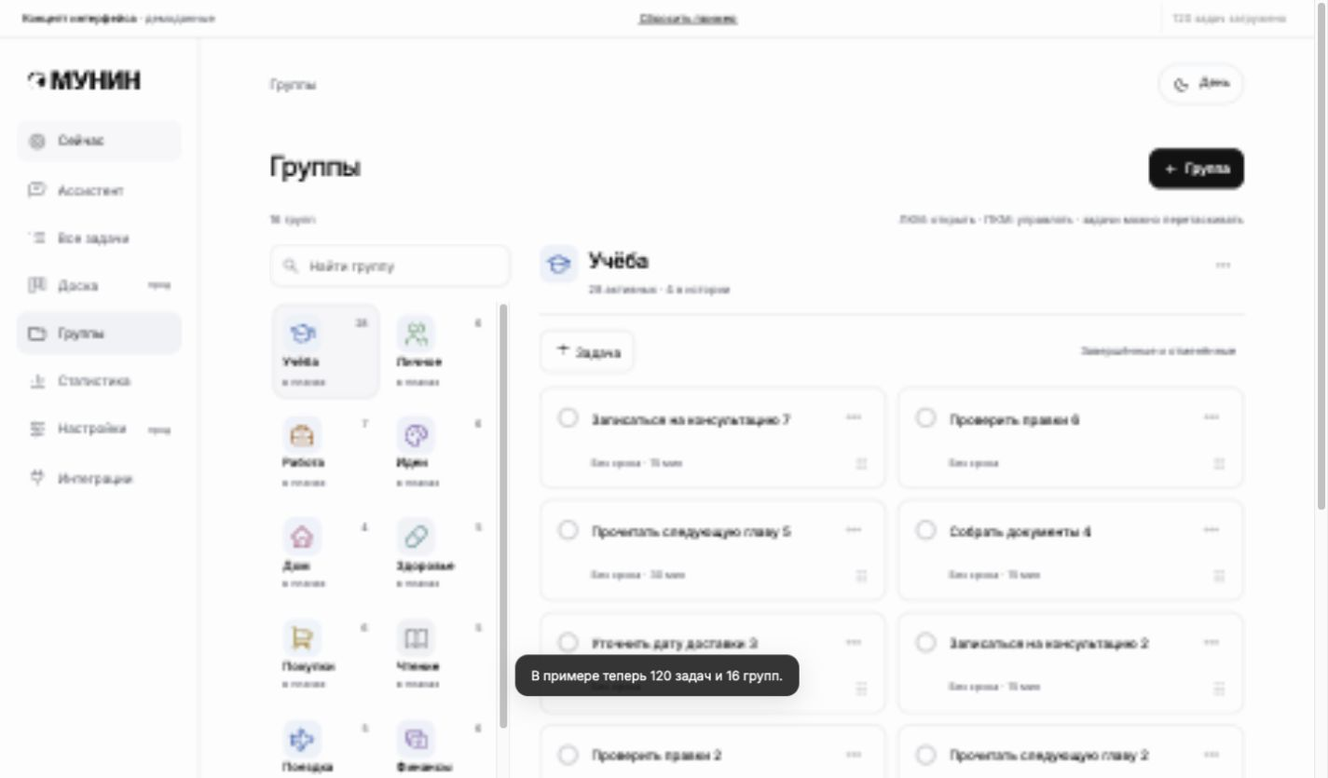
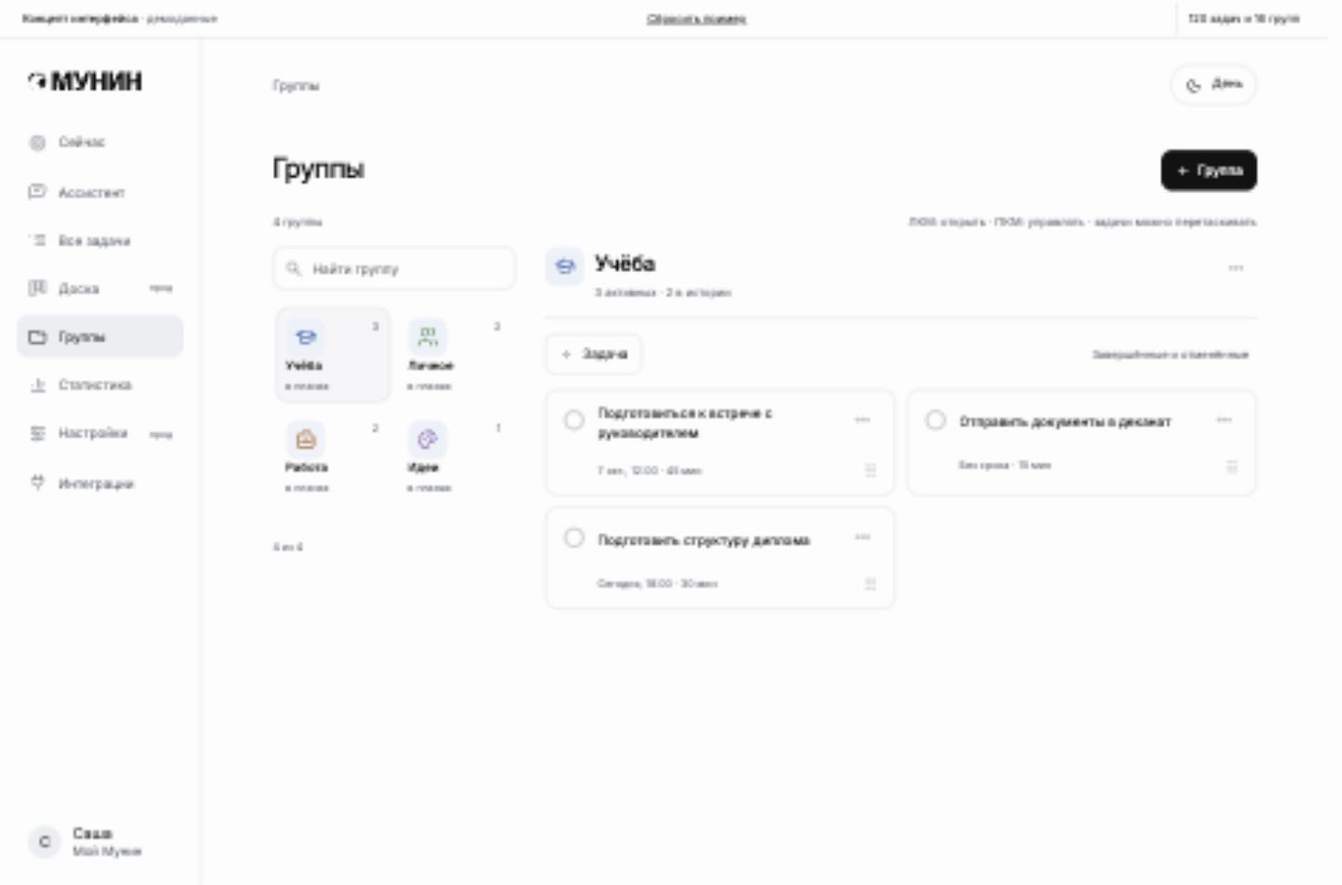
исправить быстрые действия и перенос задач в концепте

diff --git a/docs/design/concept-pages.js b/docs/design/concept-pages.js
@@ -30,7 +30,7 @@
     section('all', `${head('Все задачи', '', addButton('Добавить', 'data-new-task'))}
       <form class="inline-form" id="new-task-form" hidden><h2>Новая задача</h2><div class="form-grid">${field('Название', 'new-task-title', 'text', 'required maxlength="500"')}<label>Группа<select class="field-control" id="new-task-group"></select></label></div><div class="actions"><button class="action primary">Добавить</button><button class="action" type="button" data-close-new>Отмена</button></div></form>
       <div class="task-workbar"><div class="filter-strip" aria-label="Период задач">${[['now','Сейчас'],['today','Сегодня'],['week','Неделя'],['all','Все']].map(([key, label]) => `<button data-period="${key}" aria-pressed="${key === 'all'}">${label}</button>`).join('')}</div><label class="search-field">${icon('search')}<input type="search" id="task-search" aria-label="Поиск задач" placeholder="Найти задачу"></label><button class="tool-button filter-button" data-toggle-filters aria-expanded="false" aria-label="Фильтры">${icon('settings')}<span>Фильтры</span></button><button class="tool-button selection-button" data-toggle-selection aria-pressed="false" aria-label="Выбрать несколько задач">${icon('check')}<span>Выбрать</span></button></div>
-      <div class="list-filters" id="list-filters" hidden><label>Группа<select class="field-control" id="list-group" aria-label="Фильтр по группе"></select></label><label>Статус<select class="field-control" id="list-status" aria-label="Фильтр по статусу"><option value="">Все статусы</option>${statusOptions()}</select></label><label>Порядок<select class="field-control" id="list-order"><option value="default">По статусу</option><option value="deadline">По сроку</option><option value="title">По названию</option></select></label></div>
+      <div class="list-filters" id="list-filters" hidden><label>Группа<select class="field-control" id="list-group" aria-label="Фильтр по группе"></select></label><label>Статус<select class="field-control" id="list-status" aria-label="Фильтр по статусу"><option value="">Все статусы</option>${statusOptions()}</select></label><label>Порядок<select class="field-control" id="list-order"><option value="default">По статусу</option><option value="deadline">По сроку</option><option value="title">По названию</option></select></label><button class="tool-button" data-clear-filters>Сбросить</button></div>
       <div class="list-summary"><span id="list-caption"></span><span class="mouse-tip">ПКМ или ⋯: действия</span><span class="touch-tip">Действия в ⋯</span></div><div class="mass-toolbar" id="mass-toolbar" hidden></div><div id="all-list"></div><nav class="list-pager" id="task-pagination" aria-label="Страницы задач"></nav>`),
     section('board', `${head('Доска', 'Три состояния. Двигай задачи в своём темпе.', addButton('Задача', 'data-new-task'))}<div class="filter-strip board-mobile-tabs" id="lane-tabs" aria-label="Колонка доски"></div><div class="board-grid" id="board-grid"></div>`),
     section('groups', `${head('Группы', '', addButton('Группа', 'data-new-group'))}<form class="inline-form" id="group-form" hidden><h2 id="group-form-heading">Новая группа</h2><div class="form-grid">${field('Название', 'group-name', 'text', 'required maxlength="100"')}<div><p class="page-note">Значок</p><select id="group-symbol" hidden data-icon-source>${Object.entries(groupIcons).map(([key,label])=>`<option value="${key}">${label}</option>`).join('')}</select><div class="group-icon-picker" role="group" aria-label="Значок группы">${Object.entries(groupIcons).map(([key,label])=>`<button type="button" data-group-symbol="${key}" aria-label="${label}" aria-pressed="false"><svg class="icon" aria-hidden="true"><use href="#group-${key}"/></svg></button>`).join('')}</div></div><div class="wide"><p class="page-note">Цвет метки</p><div class="color-choices">${colors.map((color, index) => `<button type="button" class="color-choice" data-group-color="${color}" style="--group-color:${color}" aria-label="${colorNames[index]}" aria-pressed="${index === 0}"><span></span></button>`).join('')}</div></div></div><p class="field-error" id="group-error" role="alert" hidden></p><div class="actions"><button class="action primary">Сохранить</button><button class="action" type="button" data-close-group>Отмена</button></div></form><div class="group-hints"><span id="groups-count"></span><span class="mouse-tip">ЛКМ: открыть · ПКМ: управлять · задачи можно перетаскивать</span><span class="touch-tip">Управление в ⋯</span></div><div id="group-list" class="groups-workspace"><aside class="folder-index"><label class="search-field">${icon('search')}<input id="folder-search" type="search" aria-label="Найти группу" placeholder="Найти группу"></label><div id="folder-rail" class="folder-rail"></div><div id="folder-index-caption" class="index-caption"></div></aside><div class="folder-stage"><div id="group-canvas"></div><div id="folder-drag-rest" class="folder-drag-rest" hidden></div><div id="folder-hover-preview" class="folder-hover-preview" hidden></div></div></div>`),
@@ -105,6 +105,7 @@
   }
   function renderList() {
     $('list-group').innerHTML = groupOptions('Все группы'); $('list-group').value = groupFilter;
+    document.querySelectorAll('[data-clear-filters]').forEach((button)=>{if(button.closest('#list-filters'))button.disabled=period==='all' && !search && !groupFilter && !statusFilter && $('list-order').value==='default';});
     const matched = tasks.filter(listMatches), pending = matched.filter(active), history = matched.filter((task) => !active(task));
     const showHistory = historyOpen || !!search || ['done','cancelled'].includes(statusFilter);
     const items = matched.filter((task) => active(task) || showHistory);
@@ -145,14 +146,16 @@
     const items = preview || !folderHistory ? pending : historical, limit=12, pages=Math.max(1,Math.ceil(items.length/limit));
     if (!preview) folderPage=Math.min(pages,Math.max(1,folderPage));
     const page = preview ? 1 : folderPage;
-    return `${preview ? '' : `<button class="folder-back" data-folder-back>${icon('arrow')}Все группы</button>`}<header class="folder-stage-head">${folderEmblem(group,true)}<div><h2 id="${preview ? 'group-preview-title' : 'group-view-title'}" tabindex="-1">${e(group.name)}</h2><p>${preview ? 'Отпусти, чтобы перенести сюда' : `${pending.length} активных · ${historical.length} в истории`}</p></div>${preview ? '' : `<button class="record-menu" data-group-menu="${e(group.name)}" aria-label="Управлять группой ${e(group.name)}" aria-haspopup="menu">${icon('more')}</button>`}</header>${preview ? '' : `<div class="folder-tools"><button class="action" data-new-task data-task-group="${e(group.name)}">${icon('plus')} Задача</button><button class="text-action" data-folder-history>${folderHistory ? 'Активные' : 'Завершённые и отменённые'}</button></div>`}<div class="folder-task-grid">${items.slice((page-1)*limit,page*limit).map((task)=>folderTask(task,preview)).join('')}</div>${items.length ? pages>1 && !preview ? `<nav class="list-pager" aria-label="Страницы задач группы"><span>${(page-1)*limit+1}–${Math.min(page*limit,items.length)} из ${items.length}</span><button class="quiet-icon previous" data-folder-page="${page-1}" aria-label="Предыдущая страница группы" ${page===1 ? 'disabled' : ''}>${icon('arrow')}</button><button class="quiet-icon" data-folder-page="${page+1}" aria-label="Следующая страница группы" ${page===pages ? 'disabled' : ''}>${icon('arrow')}</button></nav>` : '' : `<div class="empty-state"><h2>${preview ? 'Здесь есть место' : folderHistory ? 'История пока пуста' : 'Папка свободна'}</h2><p>${preview ? 'Задача появится в этой группе после переноса.' : folderHistory ? 'Завершённые задачи появятся здесь.' : 'Добавь задачу или перенеси её из другой группы.'}</p></div>`}`;
+    return `${preview ? '' : `<button class="folder-back" data-folder-back>${icon('arrow')}Все группы</button>`}<header class="folder-stage-head">${folderEmblem(group,true)}<div><h2 id="${preview ? 'group-preview-title' : 'group-view-title'}" tabindex="-1">${e(group.name)}</h2><p>${preview ? 'Отпусти, чтобы перенести сюда' : `${pending.length} активных · ${historical.length} в истории`}</p></div><button class="record-menu ${preview ? 'preview-tools' : ''}" data-group-menu="${e(group.name)}" aria-label="Управлять группой ${e(group.name)}" aria-haspopup="menu">${icon('more')}</button></header><div class="folder-tools ${preview ? 'preview-tools' : ''}"><button class="action" data-new-task data-task-group="${e(group.name)}">${icon('plus')} Задача</button><button class="text-action" data-folder-history>${folderHistory ? 'Активные' : 'Завершённые и отменённые'}</button></div><div class="folder-task-grid">${items.slice((page-1)*limit,page*limit).map((task)=>folderTask(task,preview)).join('')}</div>${items.length ? pages>1 && !preview ? `<nav class="list-pager" aria-label="Страницы задач группы"><span>${(page-1)*limit+1}–${Math.min(page*limit,items.length)} из ${items.length}</span><button class="quiet-icon previous" data-folder-page="${page-1}" aria-label="Предыдущая страница группы" ${page===1 ? 'disabled' : ''}>${icon('arrow')}</button><button class="quiet-icon" data-folder-page="${page+1}" aria-label="Следующая страница группы" ${page===pages ? 'disabled' : ''}>${icon('arrow')}</button></nav>` : '' : `<div class="empty-state"><h2>${preview ? 'Здесь есть место' : folderHistory ? 'История пока пуста' : 'Папка свободна'}</h2><p>${preview ? 'Задача появится в этой группе после переноса.' : folderHistory ? 'Завершённые задачи появятся здесь.' : 'Добавь задачу или перенеси её из другой группы.'}</p></div>`}`;
   }
   function renderGroups() {
     if (folderDragId !== null) return;
     if (!groups.some((group)=>group.name===expandedGroup)) expandedGroup=groups[0]?.name || null;
     const filtered=groups.filter((group)=>group.name.toLocaleLowerCase('ru').includes(folderSearch.toLocaleLowerCase('ru'))), visible=folderSearch ? filtered : filtered.slice(0,folderLimit);
     $('groups-count').textContent=`${groups.length} ${groups.length===1 ? 'группа' : groups.length>=2 && groups.length<=4 ? 'группы' : 'групп'}`;
+    const railScroll=$('folder-rail').scrollTop;
     $('folder-rail').innerHTML=visible.length ? visible.map((group)=>{const pending=tasks.filter((task)=>active(task) && task.group===group.name).length;return `<button class="folder-tile" data-open-folder="${e(group.name)}" data-drop-folder="${e(group.name)}" aria-expanded="${expandedGroup===group.name}" title="${e(group.name)} · ПКМ: управление" style="--folder-color:${group.color}">${folderEmblem(group)}<span class="folder-count">${pending}</span><strong>${e(group.name)}</strong><small>${pending ? 'в планах' : 'нет активных задач'}</small></button>`;}).join('') : '<p class="page-note">Группа не найдена.</p>';
+    $('folder-rail').scrollTop=railScroll;
     $('folder-index-caption').innerHTML=`<span>${visible.length} из ${filtered.length}</span>${visible.length<filtered.length ? '<button data-more-folders>Ещё группы</button>' : ''}`;
     $('group-list').classList.toggle('folder-focused',folderOpened);
     const group=groups.find((item)=>item.name===expandedGroup);
@@ -190,7 +193,7 @@
   function renderIdentities() {
     const total=Object.values(identities).filter(Boolean).length;
     $('access-note').innerHTML=`${icon(total>=2 ? 'check' : 'plug')}<span>${total>=2 ? 'Запасной способ входа подключён.' : `${identities.telegram ? 'Telegram подключён' : identities.email ? 'Почта подключена' : 'Телефон подключён'}. Добавь запасной способ входа.`}</span>`;
-    $('provider-list').innerHTML=[['telegram','Telegram','chat','Вход через Telegram'],['email','Почта','mail','Код в письме'],['phone','Телефон','phone','Подтверждение звонком']].map(([key,name,symbol,note])=>{const connected=identities[key],opened=binding?.key===key;return `<section class="identity-row"><div class="identity-summary">${icon(symbol)}<div><h2>${name}</h2><p class="${connected ? 'identity-state' : ''}">${connected ? e(connected) : note}</p></div>${opened ? '' : `<button class="action ${!connected && key==='email' && total===1 ? 'primary' : ''}" data-bind="${key}" aria-label="${connected ? 'Отключить' : 'Подключить'} ${key==='email' ? 'почту' : key==='phone' ? 'телефон' : 'Telegram'}" ${connected && total===1 ? 'disabled title="Единственный способ входа"' : ''}>${connected ? 'Отключить' : 'Подключить'}</button>`}</div>${identityForm(key)}</section>`;}).join('');
+    $('provider-list').innerHTML=[['telegram','Telegram','chat','Вход через Telegram'],['email','Почта','mail','Код в письме'],['phone','Телефон','phone','Подтверждение звонком']].map(([key,name,symbol,note])=>{const connected=identities[key],opened=binding?.key===key;return `<section class="identity-row"><div class="identity-summary">${icon(symbol)}<div><h2>${name}</h2><p class="${connected ? 'identity-state' : ''}">${connected ? e(connected) : note}</p></div>${opened ? '' : `<button class="action" data-bind="${key}" aria-label="${connected ? 'Отключить' : 'Подключить'} ${key==='email' ? 'почту' : key==='phone' ? 'телефон' : 'Telegram'}" ${connected && total===1 ? 'disabled title="Единственный способ входа"' : ''}>${connected ? 'Отключить' : 'Подключить'}</button>`}</div>${identityForm(key)}</section>`;}).join('');
     $('identity-protection').textContent=total===1 ? 'Единственный способ входа нельзя отключить. Сначала подключи ещё один.' : '';
     $('identity-help-text').innerHTML=`При подключении почты или Telegram можно перенести задачи из прежнего аккаунта. Перенос требует отдельного подтверждения.${!identities.email ? '<br><button data-merge-example>Посмотреть пример переноса</button>' : ''}`;
     syncNotificationAvailability();
@@ -205,7 +208,9 @@
   const originalRender = render, originalShowPage = showPage, originalReset = reset;
   render = (revealNext = false) => { observeTasks(); originalRender(revealNext); refreshPages(); };
   showPage = (page) => {
-    if (!labels[page]) return; closeQuickMenu(false); finishFolderDrag();
+    if (!labels[page]) return; cancelTaskHold(); closeQuickMenu(false); finishFolderDrag();
+    if(page!=='focus'){focusRevealId=null;originalRender();}
+    if(page!=='groups')document.querySelector('.folder-stage').style.minHeight='';
     originalShowPage(page);
     document.querySelectorAll('.workspace > section.content').forEach((element) => { element.hidden = element.id !== `${page}-page`; });
     $('top-label').textContent = labels[page];
@@ -237,7 +242,7 @@
     if ('newTask' in data) newTask(data.taskGroup);
     if ('closeNew' in data) { $('new-task-form').hidden = true; document.querySelector('#all-page [data-new-task]').focus(); }
     if (data.period) { period = data.period; listPage = 1; document.querySelectorAll('[data-period]').forEach((item) => item.setAttribute('aria-pressed', String(item.dataset.period === period))); renderList(); }
-    if ('clearFilters' in data) { period = 'all'; search = ''; groupFilter = ''; statusFilter = ''; $('task-search').value = ''; $('list-status').value = ''; document.querySelectorAll('[data-period]').forEach((item) => item.setAttribute('aria-pressed', String(item.dataset.period === 'all'))); renderList(); $('task-search').focus(); }
+    if ('clearFilters' in data) { period='all';search='';groupFilter='';statusFilter='';listPage=1;historyOpen=false;$('task-search').value='';$('list-status').value='';$('list-order').value='default';document.querySelectorAll('[data-period]').forEach((item)=>item.setAttribute('aria-pressed',String(item.dataset.period==='all')));render();$('task-search').focus({preventScroll:true}); }
     if (data.lane) { lane = data.lane; renderBoard(); document.querySelector(`[data-lane="${lane}"]`).focus(); }
     if ('newGroup' in data) openGroup();
     if (data.editGroup) openGroup(data.editGroup);
@@ -301,10 +306,12 @@
     if(!motionPreference.matches) element.animate([{opacity:0,transform:'translateY(7px)'},{opacity:1,transform:'translateY(0)'}],{duration:180,easing:'cubic-bezier(.16,1,.3,1)'});
   }
   function openFolder(name) {
+    document.querySelector('.folder-stage').style.minHeight='';
     expandedGroup=name;folderOpened=true;folderPage=1;folderHistory=false;renderGroups();animateFolder();
     $('group-view-title')?.focus({preventScroll:true});if(innerWidth<1024)window.scrollTo({top:0,behavior:'instant'});
   }
   function closeQuickMenu(restoreFocus=true) {
+    document.querySelectorAll('.is-menu-lifted').forEach((card)=>card.classList.remove('is-menu-lifted'));
     $('quick-menu').hidden=true; menuOpener?.setAttribute('aria-expanded','false');
     if(restoreFocus && menuOpener?.isConnected) menuOpener.focus({preventScroll:true});
     menuState=null;menuOpener=null;
@@ -369,15 +376,39 @@
     if(action==='tomorrow') changeTasks([task],(item)=>{setTaskStatus(item,'moved');item.plannedDate='2026-10-06';item.meta=taskMeta(item);counts.moved++;},'День исполнения перенесён на завтра.');
     if(action==='cancel') changeTasks([task],(item)=>setTaskStatus(item,'cancelled'),'Задача отменена.');
     if(action==='archive') changeTasks([task],(item)=>{item.archived=true;},'Задача убрана из списка.');
-    document.querySelector(`#${document.body.dataset.page}-page [data-record-id="${task.id}"] .record-open`)?.focus({preventScroll:true});
+    document.querySelector(`#${document.body.dataset.page}-page [data-record-id="${task.id}"]`)?.querySelector('.record-open,.task-title')?.focus({preventScroll:true});
   }
   document.addEventListener('contextmenu',(event)=>{
-    const record=event.target.closest('.list-record[data-record-id], .folder-task[data-record-id]'), folder=event.target.closest('[data-open-folder]');
+    const record=event.target.closest('.task[data-record-id], .list-record[data-record-id], .folder-task[data-record-id]'), folder=event.target.closest('[data-open-folder]');
     if(!record && !folder)return;event.preventDefault();
+    if(suppressTaskClick)return;
     openQuickMenu(record ? {kind:'task',id:Number(record.dataset.recordId)} : {kind:'group',name:folder.dataset.openFolder},event.clientX,event.clientY,record?.querySelector('.record-menu') || folder);
   });
   document.addEventListener('pointerdown',(event)=>{if(!$('quick-menu').hidden && !$('quick-menu').contains(event.target) && !menuOpener?.contains(event.target))closeQuickMenu(false);});
+  let taskHold=null, suppressTaskClick=false;
+  function cancelTaskHold() {if(taskHold)clearTimeout(taskHold.timer);taskHold=null;}
+  document.addEventListener('pointerdown',(event)=>{
+    cancelTaskHold();
+    if(event.pointerType!=='touch' || !event.isPrimary || event.target.closest('.completion-hit,.task-check,.record-menu,.task-controls'))return;
+    const card=event.target.closest('.task[data-record-id],.list-record[data-record-id],.folder-task[data-record-id]');
+    if(!card || card.closest('#folder-hover-preview'))return;
+    const hold={id:event.pointerId,x:event.clientX,y:event.clientY,card,timer:null};taskHold=hold;
+    hold.timer=setTimeout(()=>{if(taskHold!==hold || !card.isConnected)return;const rect=card.getBoundingClientRect();suppressTaskClick=true;openQuickMenu({kind:'task',id:Number(card.dataset.recordId)},rect.left,rect.bottom+8,card.querySelector('.record-menu'));card.classList.add('is-menu-lifted');},480);
+  });
+  document.addEventListener('pointermove',(event)=>{if(taskHold && (event.pointerId!==taskHold.id || Math.hypot(event.clientX-taskHold.x,event.clientY-taskHold.y)>10))cancelTaskHold();},{passive:true});
+  document.addEventListener('pointerup',()=>{cancelTaskHold();setTimeout(()=>{suppressTaskClick=false;},400);});
+  document.addEventListener('pointercancel',()=>{cancelTaskHold();suppressTaskClick=false;});
+  document.addEventListener('scroll',()=>cancelTaskHold(),{capture:true,passive:true});
+  document.addEventListener('click',(event)=>{if(suppressTaskClick && event.target.closest('[data-record-id]')){event.preventDefault();event.stopImmediatePropagation();}},{capture:true});
+  document.addEventListener('pointerdown',(event)=>{
+    if(event.target.closest('.select-popover') || $('edit-dialog').open)return;
+    for(const [id,trigger] of [['new-task-form','[data-new-task]'],['group-form','[data-new-group],[data-edit-group],[data-group-menu]']]){const form=$(id);if(!form.hidden && !form.contains(event.target) && !event.target.closest(trigger))form.hidden=true;}
+    if(goalEditorOpen && !$('goal-editor').contains(event.target) && !event.target.closest('[data-edit-goal]')){goalEditorOpen=false;renderStats();}
+    const identity=document.querySelector('.identity-form');
+    if(binding && identity && !identity.contains(event.target) && !event.target.closest('[data-bind],[data-merge-example]')){binding=null;renderIdentities();}
+  });
   document.addEventListener('keydown',(event)=>{
+    if(event.key==='Escape'){cancelTaskHold();for(const [id,trigger] of [['new-task-form','#all-page [data-new-task]'],['group-form','#groups-page [data-new-group]']]){if(!$(id).hidden){const focused=$(id).contains(document.activeElement);$(id).hidden=true;if(focused)document.querySelector(trigger)?.focus({preventScroll:true});}}if(goalEditorOpen){goalEditorOpen=false;renderStats();document.querySelector('[data-edit-goal]')?.focus({preventScroll:true});}if(binding){const key=binding.key;binding=null;renderIdentities();document.querySelector(`[data-bind="${key}"]`)?.focus({preventScroll:true});}}
     if(event.key==='Escape' && folderPointer){event.preventDefault();finishFolderDrag();renderGroups();return;}
     if((event.shiftKey && event.key==='F10') || event.key==='ContextMenu') {
       const record=document.activeElement?.closest('[data-record-id]'), folder=document.activeElement?.closest('[data-open-folder]');if(!record&&!folder)return;
@@ -415,7 +446,6 @@
     if('bulkDone' in data) {const items=tasks.filter((task)=>selectedIds.has(task.id));changeTasks(items,(task)=>setTaskStatus(task,'done'),`Завершено ${items.length} ${doneWord(items.length)}.`);selecting=false;selectedIds.clear();renderList();}
     if('toggleHistory' in data) {historyOpen=!historyOpen;listPage=1;renderList();document.querySelector('[data-toggle-history]')?.focus({preventScroll:true});}
     if(data.listPage) {listPage=Number(data.listPage);renderList();$('all-list').scrollIntoView({block:'start'});$('task-search').focus({preventScroll:true});}
-    if('clearFilters' in data) {listPage=1;renderList();}
     if(data.openFolder) openFolder(data.openFolder);
     if('folderBack' in data) {folderOpened=false;renderGroups();$('folder-search').focus({preventScroll:true});window.scrollTo({top:0,behavior:'instant'});}
     if('folderHistory' in data) {folderHistory=!folderHistory;folderPage=1;renderGroups();}
@@ -426,7 +456,16 @@
     if('allReceipts' in data) {receiptDay=null;renderStats();document.querySelector('[data-all-receipts]').focus({preventScroll:true});}
     if('toggleStatDetails' in data) {statsDetailsOpen=!statsDetailsOpen;renderStats();}
     if(data.statGroup) {showPage('groups');openFolder(data.statGroup);}
-    if(data.statNext) {const task=tasks.find((item)=>item.id===Number(data.statNext));if(task.status!=='started') {setTaskStatus(task,'started');render();}showPage('focus');notice(`В работе: «${task.title}».`);}
+    if(data.statNext) {
+      const task=tasks.find((item)=>item.id===Number(data.statNext));if(!task)return;
+      if(task.status!=='started')setTaskStatus(task,'started');
+      if(budget && (task.minutes===null || task.minutes>budget)){budget=null;document.querySelectorAll('[data-minutes]').forEach((item)=>item.setAttribute('aria-pressed','false'));}
+      focusRevealId=task.id;render();showPage('focus');
+      const card=$('tasks').querySelector(`[data-record-id="${task.id}"]`);
+      card?.classList.add('is-revealed');card?.querySelector('.task-title').focus({preventScroll:true});
+      card?.scrollIntoView({block:'nearest',behavior:motionPreference.matches ? 'instant' : 'smooth'});
+      setTimeout(()=>card?.classList.remove('is-revealed'),3200);notice(`В работе: «${task.title}».`);
+    }
     if(data.statsPanel){statsPanel=data.statsPanel;renderStats();}
     if('toggleIdentityHelp' in data) {$('identity-help-text').hidden=!$('identity-help-text').hidden;button.setAttribute('aria-expanded',String(!$('identity-help-text').hidden));}
     if('demoCallConfirm' in data && binding) {identities.phone=binding.value;binding=null;renderIdentities();notice('Телефон подключён в примере.');}
@@ -443,6 +482,7 @@
   let folderPointer=null;
   function beginFolderDrag(id) {
     closeQuickMenu(false);folderDragId=id;
+    const stage=document.querySelector('.folder-stage');stage.style.minHeight=`${Math.ceil(stage.getBoundingClientRect().height)}px`;stage.style.overflowAnchor='none';
     const task=tasks.find((item)=>item.id===id),group=groups.find((item)=>item.name===task.group);
     $('folder-drag-rest').innerHTML=`${folderEmblem(group)}<span>${e(group?.name || 'Группа')} закрыта</span><small>Наведи задачу на другую папку</small>`;
     $('folder-drag-rest').hidden=false;$('group-list').classList.add('is-dragging');
@@ -475,7 +515,8 @@
     folderPointer=null;finishFolderDrag();
     if(!task || !groups.some((group)=>group.name===name)){renderGroups();return;}
     expandedGroup=name;folderOpened=true;folderPage=1;folderHistory=false;
-    if(task.group!==name)changeTasks([task],(item)=>{item.group=name;},`Задача перенесена: ${name}.`);else renderGroups();animateFolder();
+    if(task.group!==name)changeTasks([task],(item)=>{item.group=name;},`Задача перенесена: ${name}.`);else renderGroups();
+    const transferred=$('group-canvas').querySelector(`[data-record-id="${task.id}"]`);transferred?.classList.add('is-drop-revealed');setTimeout(()=>transferred?.classList.remove('is-drop-revealed'),1600);
   }
   $('group-list').addEventListener('pointerup',(event)=>endFolderPointer(event));
   $('group-list').addEventListener('pointercancel',(event)=>endFolderPointer(event,true));
@@ -490,6 +531,7 @@
   });
 
   reset = () => {
+    focusRevealId=null;cancelTaskHold();suppressTaskClick=false;document.querySelector('.folder-stage').style.minHeight='';
     knownTasks.clear(); groups = [{name:'Учёба',color:colors[0],symbol:'school'},{name:'Личное',color:colors[2],symbol:'users'},{name:'Работа',color:colors[3],symbol:'briefcase'},{name:'Идеи',color:colors[1],symbol:'palette'}];
     period = 'all'; search = ''; groupFilter = ''; statusFilter = ''; expandedGroup = null;
     listPage = 1; selecting = false; selectedIds.clear(); historyOpen = false; folderSearch = ''; folderOpened = false; folderPage = 1; folderHistory = false; folderLimit = 12; weeklyGoal = 5; statsPanel='results'; receiptDay = null; goalEditorOpen = false; statsDetailsOpen = false; denseExample = false; closeQuickMenu(false); finishFolderDrag(); lane = 'todo'; selectedDay = 6; binding = null; identities = {telegram:'@sasha',email:'',phone:''};

diff --git a/docs/design/concept.html b/docs/design/concept.html
@@ -354,7 +354,7 @@
             <div class="budget" role="group" aria-label="Сколько времени есть?"><span class="budget-label">Сколько времени есть?</span><button class="chip" data-minutes="15" aria-pressed="false">15 мин</button><button class="chip" data-minutes="30" aria-pressed="false">30 мин</button><button class="chip" data-minutes="60" aria-pressed="false">1 час</button></div>
             <div class="section-head"><h2>Фокус сейчас</h2><button class="day-progress" id="day-progress" aria-expanded="false" aria-controls="day-detail"><svg class="icon" aria-hidden="true"><use href="#check"/></svg><span id="day-progress-note" aria-live="polite">2 готово · следующее — ~30 мин</span><svg class="icon chevron" aria-hidden="true"><use href="#chevron"/></svg></button></div>
             <section class="day-detail" id="day-detail" aria-labelledby="day-detail-title" hidden><h3 id="day-detail-title">Что уже получилось сегодня</h3><ul id="completed-items"></ul><p id="day-extra"></p></section>
-            <div id="tasks"></div>
+            <div id="tasks"></div><p class="focus-menu-hint"><span class="mouse-tip">ПКМ по задаче</span><span class="touch-tip">Удерживай задачу</span> или нажми ⋯ для быстрых действий</p>
             <div id="empty" class="empty" hidden><h3>Можно выдохнуть.</h3><p>В этой подборке больше нет задач. Можно выбрать другой бюджет времени или рассказать о новых делах.</p></div>
           </div>
           <aside class="aside" aria-label="Ввод">
@@ -385,6 +385,7 @@
       { id: 2, title: 'Отправить документы в деканат', group: 'Учёба', minutes: 15, meta: 'День исполнения: сегодня', status: 'todo' },
       { id: 3, title: 'Разобрать заметки за неделю', group: 'Личное', minutes: 15, meta: 'Без срока', status: 'started' }
     ];
+    let focusRevealId = null;
     let tasks = [], budget = null, counts = {}, completedToday = [], editingId = null, toastTimer;
     let chatEntries = [], nextChatId = 1, nextTaskId = 4;
     const tasksElement = document.getElementById('tasks');
@@ -392,10 +393,13 @@
     const escapeHtml = (value) => value.replace(/[&<>"']/g, (char) => ({'&':'&amp;', '<':'&lt;', '>':'&gt;', '"':'&quot;', "'":'&#39;'}[char]));
     const doneWord = (number) => number % 10 === 1 && number % 100 !== 11 ? 'дело' : number % 10 >= 2 && number % 10 <= 4 && (number % 100 < 12 || number % 100 > 14) ? 'дела' : 'дел';
     function render(revealNext = false) {
-      const visible = tasks.filter((task) => !task.archived && !['done', 'moved', 'cancelled'].includes(task.status) && (!budget || task.minutes !== null && task.minutes <= budget)).slice(0, 3);
-      tasksElement.innerHTML = visible.map((task, index) => `<article class="task${revealNext && index === 0 ? ' is-next' : ''}" aria-labelledby="title-${task.id}">
+      const eligible = tasks.filter((task) => !task.archived && !['done', 'moved', 'cancelled'].includes(task.status));
+      const requested = eligible.find((task) => task.id === focusRevealId);
+      const pool = eligible.filter((task) => !budget || task.minutes !== null && task.minutes <= budget);
+      const visible = (requested ? [requested, ...pool.filter((task) => task.id !== requested.id)] : pool).slice(0, 3);
+      tasksElement.innerHTML = visible.map((task, index) => `<article class="task${revealNext && index === 0 ? ' is-next' : ''}" data-record-id="${task.id}" aria-labelledby="title-${task.id}">
         <button class="task-check" data-action="done" data-id="${task.id}" aria-label="Сделано: ${escapeHtml(task.title)}" title="Отметить как выполненную"><span class="check-ring">${icon('check')}</span></button>
-        <div class="task-body"><div class="task-heading"><h3 id="title-${task.id}"><button class="task-title" data-action="edit" data-id="${task.id}">${escapeHtml(task.title)}</button></h3><button class="edit" data-action="edit" data-id="${task.id}" aria-label="Редактировать: ${escapeHtml(task.title)}">${icon('edit')}</button></div>
+        <div class="task-body"><div class="task-heading"><h3 id="title-${task.id}"><button class="task-title" data-action="edit" data-id="${task.id}">${escapeHtml(task.title)}</button></h3><button class="edit record-menu" data-task-menu="${task.id}" aria-label="Действия: ${escapeHtml(task.title)}" aria-haspopup="menu" aria-expanded="false">${icon('more')}</button></div>
         <div class="meta"><span>${icon('clock')}${escapeHtml(task.meta)}</span><span>${task.minutes === null ? 'Без оценки' : `${task.minutes} мин`}</span><span>${escapeHtml(task.group)}</span>${task.status === 'started' ? '<span class="task-status">В работе</span>' : ''}</div>
         <div class="task-controls">${task.status === 'todo' ? `<button class="text-action" data-action="start" data-id="${task.id}">Начать</button>` : `<button class="text-action" data-action="done" data-id="${task.id}" aria-label="Завершить: ${escapeHtml(task.title)}">Завершить</button><button class="text-action" data-action="todo" data-id="${task.id}">Вернуть в список</button>`}<button class="text-action" data-action="snooze" data-id="${task.id}">Отложить</button></div></div>
       </article>`).join('');
@@ -450,6 +454,7 @@
     }
     document.querySelectorAll('[data-page]').forEach((button) => button.addEventListener('click', () => showPage(button.dataset.page)));
     document.querySelectorAll('[data-minutes]').forEach((button) => button.addEventListener('click', () => {
+      focusRevealId = null;
       const minutes = Number(button.dataset.minutes); budget = budget === minutes ? null : minutes;
       document.querySelectorAll('[data-minutes]').forEach((item) => item.setAttribute('aria-pressed', String(Number(item.dataset.minutes) === budget)));
       render();
@@ -473,6 +478,11 @@
       const sameTask = tasksElement.querySelector(`[data-id="${task.id}"][data-action="${task.status === 'started' ? 'todo' : 'start'}"]`);
       const nextControl = sameTask || tasksElement.querySelector('[data-action="done"]') || document.querySelector('[data-minutes]'); nextControl.focus();
     });
+    const editDialog = document.getElementById('edit-dialog');
+    let backdropPressed = false;
+    const outsideDialog = (event) => { const rect=editDialog.getBoundingClientRect(); return event.clientX<rect.left || event.clientX>rect.right || event.clientY<rect.top || event.clientY>rect.bottom; };
+    editDialog.addEventListener('pointerdown', (event) => { backdropPressed=event.target===editDialog && outsideDialog(event); });
+    editDialog.addEventListener('click', (event) => { if(backdropPressed && event.target===editDialog && outsideDialog(event))editDialog.close(); backdropPressed=false; });
     document.getElementById('cancel-edit').addEventListener('click', () => document.getElementById('edit-dialog').close());
     document.getElementById('day-progress').addEventListener('click', () => {
       const trigger = document.getElementById('day-progress');

diff --git a/docs/design/concept-detail.css b/docs/design/concept-detail.css
@@ -317,3 +317,39 @@ body:not([data-page="focus"]):not([data-page="assistant"]) .toast { bottom: calc
 }
 
 .select-value-text { min-width: 0; overflow: hidden; text-overflow: ellipsis; white-space: nowrap; }
+
+/* Общие размеры и состояния действий */
+@media (min-width: 1024px) { html { scrollbar-gutter: stable; } }
+.action { display: inline-flex; align-items: center; justify-content: center; gap: 8px; line-height: 1.3; }
+.action > .icon { width: 18px; height: 18px; flex-shrink: 0; }
+.search-field:focus-within { outline: none; border-color: var(--text); box-shadow: inset 0 0 0 1px var(--text); }
+.select-search input:focus-visible { outline: none; }
+.select-search:focus-within { box-shadow: inset 0 0 0 1px var(--text); border-radius: 7px; }
+#tasks .task-controls { gap: 6px; margin-left: 0; margin-top: 6px; }
+#tasks .text-action { font-size: 13px; padding: 7px 12px; border-radius: 9px; line-height: 1.3; }
+#tasks .text-action[data-action="start"], #tasks .text-action[data-action="done"] { min-width: 84px; }
+#tasks .task:not(:first-child) .text-action[data-action="start"] { border: 1px solid var(--line); color: var(--text); }
+#tasks .edit .icon { width: 18px; height: 18px; }
+.focus-menu-hint { color: var(--muted); font-size: 11px; margin-top: 12px; }
+.focus-menu-hint .mouse-tip { display: none; }
+.task.is-revealed { border-radius: 12px; background: var(--raised); box-shadow: inset 0 0 0 1px var(--muted); animation: task-reveal 3.2s ease-out both; }
+.is-menu-lifted { position: relative; z-index: 20; transform: translateY(-4px); border-radius: 12px; background: var(--background); box-shadow: 0 10px 26px #0002; }
+#tasks .task, .list-record, .folder-task { transition: transform 180ms cubic-bezier(.16,1,.3,1), box-shadow 180ms; }
+@media (pointer: coarse) { [data-record-id] { -webkit-touch-callout: none; } .record-open,.task-title { user-select: none; } }
+@media (hover: hover) and (pointer: fine) { .focus-menu-hint .mouse-tip { display: inline; } .focus-menu-hint .touch-tip { display: none; } }
+@media (min-width: 1024px) {
+  #tasks .text-action { min-height: 36px; }
+  .group-emblem svg { width: 24px; height: 24px; stroke-width: 2; }
+  .folder-tile[aria-expanded="true"] .group-emblem:not(.is-folder) svg, .folder-tile.is-drag-target .group-emblem:not(.is-folder) svg { transform: none; }
+}
+.folder-stage { overflow-anchor: none; }
+.folder-hover-preview { min-height: 0; overflow: hidden; }
+.folder-hover-preview .folder-stage-head { background: none; border-radius: 0; border-bottom: 1px solid var(--line); padding: 0 0 18px; }
+.preview-tools { visibility: hidden; pointer-events: none; }
+.folder-drag-rest { top: 154px; justify-content: flex-start; padding-top: 32px; }
+.folder-drag-rest .group-emblem { width: 42px; height: 42px; }
+.folder-drag-rest .group-emblem svg { width: 24px; height: 24px; }
+.is-drop-revealed { animation: task-drop 1.6s ease-out; }
+@keyframes task-reveal { 0%,25% { background: var(--raised); box-shadow: inset 0 0 0 1px var(--muted); } 100% { background: var(--background); box-shadow: inset 0 0 0 1px transparent; } }
+@keyframes task-drop { from { background: var(--raised); box-shadow: inset 0 0 0 1px var(--muted); } to { background: var(--background); box-shadow: inset 0 0 0 1px transparent; } }
+@media (prefers-reduced-motion: reduce) { #tasks .task,.list-record,.folder-task { transition: none; } .task.is-revealed,.is-drop-revealed { animation: none; } .is-menu-lifted { transform: none; } }

diff --git a/docs/design/README.md b/docs/design/README.md
@@ -223,3 +223,17 @@ Production-код не менялся. В браузере проверены о
 Ещё возможны личные отметки «Первое завершение», «10 дел позади», «50 дел позади». Полный накопительный итог нельзя вывести из текущего `/tasks/stats`, который ориентирован на ограниченное окно; потребуется агрегат или отдельная запись результата. Архивирование и очистка списков должны сохранять историю достижений.
 
 Награды размещаются небольшой строкой под ориентиром, подробности открываются по нажатию. Постоянного пульсирования и анимации при каждом заходе нет. Импорт задач, повторное завершение и перезагрузка не запускают повторные конфетти; отмена последнего действия обновляет состояние дневного результата. Праздничные эффекты можно выключить, reduced motion всегда учитывается. Пропущенный день не сопровождается сообщением о потерянной серии.
+
+### Быстрые действия и устойчивость интерфейса, 6 октября
+
+На главной кнопки действий стали компактнее: 36 px на ПК, 44 px на телефоне. Меню открывается по ПКМ, через ⋯ и Shift+F10; в нём доступны завершение, снятие статуса «В работе», перенос, отмена и детали. Для сенсорного ввода добавлено удержание 480 мс с подъёмом карточки на 4 px. Движение более 10 px, прокрутка и отмена указателя снимают ожидание. Обычный тап по названию открывает детали, кнопки завершения и ⋯ работают отдельно. После удержания подавляется случайный клик по карточке. Reduced motion убирает подъём.
+
+Перенос сохраняет высоту области папки. Заголовок остаётся на месте, предпросмотр использует отступы открытой папки и не расширяет страницу. После сброса выделяется перенесённая карточка; вся панель больше не появляется с вертикальным сдвигом. Сохраняется прокрутка списка групп. На ПК зарезервировано место под полосу прокрутки. Значки отображаются в исходном viewBox 24 px с толщиной 2 и без постоянного масштабирования выбранной метки.
+
+Поиск получает внутреннюю рамку в пределах поля. «+ Задача» и остальные кнопки с иконками выровнены через inline-flex. У способов входа одинаковые кнопки подключения. Диалог деталей закрывается по фону; формы задачи, группы, подключения и ориентира закрываются по внешней области и Escape. Закрытие не применяет правки. Кнопка «Сбросить» очищает период, поиск, группу, статус и сортировку, возвращает первую страницу.
+
+Переход из статистики ставит выбранную задачу первой в фокусе, переводит её в работу, прокручивает к ней и выделяет на 3,2 секунды. Если прежний бюджет времени не подходит выбранной задаче, его выбранное состояние снимается. Следующий выбор бюджета возвращает обычную подборку.
+
+Проверены ПКМ на главной, действие из меню, закрытие деталей по фону без сохранения названия, сброс поиска и группы, закрытие форм подключения и группы. Из статистики открыта и выделена задача №4, которой раньше не было среди первых трёх. Для 120 задач перенос из большой папки в маленькую сохранил высоту панели 951 px, высоту страницы 1280 px и положение карточек; отмена переноса работает. Прокрутка списка папок оставалась 248 px после завершения задачи. На ПК кнопки главной имеют высоту 36 px, в мобильной папке «+ Задача» — 44 px. На ширинах 320, 390 и 1440 px проверенные экраны не имеют горизонтального переполнения. Ошибок скриптов не обнаружено.
+
+Меню на мобильной ширине проверено через ⋯. Само удержание пальцем и отмена жеста при реальной сенсорной прокрутке требуют проверки на телефоне; браузерная проверка здесь не имитирует touch-ввод. Снимки: [меню действий](quick-actions-mobile.jpg), [сброс фильтров](filters-reset-mobile.jpg), [переход из статистики](focus-reveal-desktop.jpg).
